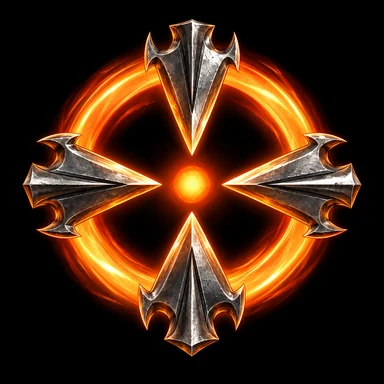
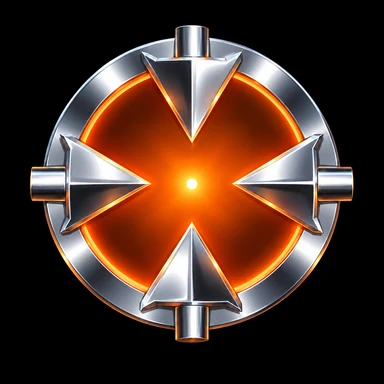
Quarry Mark's reticle redrawn with clean geometry: a steel hoop, four identical broadheads

diff --git a/AGENTS.md b/AGENTS.md
@@ -146,7 +146,7 @@ The game has no test suite. Verify changes with `npm run build` and by playing t
   - **A new icon** matches the set, which is simple and bold.
     - **Simple:** one subject, or two or three of the same object at most; clean silhouettes with smooth shading; pure black to the edges, with nothing scattered round it (no sparks, leaves, rings or ground).
     - **Bold:** big, filling about 80% of the square; chunky proportions (thick shafts, big heads); a strong saturated glow in the skill's `icon.color` lighting it.
-    - **Crafted:** an object is a real one, finely made, as the warrior's are: polished steel with bevels and crisp highlights on its edges, wood with its grain, leather and gold fittings, lit by the skill's glow, in a dynamic diagonal composition with the energy as arcs and ribbons behind it. An arrow is a whole arrow seen from its side, larger than life where it counts (a big steel head, a straight thick wooden shaft, three big feathers, a nock), its glow trailing behind it: the ranger's second set coiled glows round thin shafts, and players saw "unknown long objects". A figure keeps what makes it one clear at slot size (Veilstep's hood, shoulders and crystal staff: a hooded shroud of light read as a ghost).
+    - **Crafted:** an object is a real one, finely made, as the warrior's are: polished steel with bevels and crisp highlights on its edges, wood with its grain, leather and gold fittings, lit by the skill's glow, in a dynamic diagonal composition with the energy as arcs and ribbons behind it. An arrow is a whole arrow seen from its side, larger than life where it counts (a big steel head, a straight thick wooden shaft, three big feathers, a nock), its glow trailing behind it: the ranger's second set coiled glows round thin shafts, and players saw "unknown long objects". A figure keeps what makes it one clear at slot size (Veilstep's hood, shoulders and crystal staff: a hooded shroud of light read as a ghost). A symmetric emblem is laid out exactly, as with a compass and a ruler: its pieces identical and evenly placed, its rings true circles, its steel smooth (Quarry Mark's first reticle, four arrowheads of different sizes with hooked barbs on a lumpy, smoky ring, looked messy).
     - **Padded:** the touch buttons are round, so 99.5% of an icon's light must lie inside the circle they draw, and its content at least 4% clear of the square's edges. The ranger's arrows ran corner to corner and the circle cut up to 16% of their light. On a black background a picture is padded exactly by shrinking it onto a larger black square, which `npm run icons -- add <impl> <original>` does as it writes the WebP (`tools/icons/README.md`); `check` measures every icon (most of the warrior's and mage's, made before this rule, reach past the circle, Twin Fangs and Raise Shield by 10% of their light).
     - **Coloured apart:** each skill of a class in a colour of its own, as the warrior's and mage's are, with `icon.color` (the tooltip's name, the key diagram's glow) set to match. Veilstep's is violet though its light in the game is green: Void Lance's icon is green.
     - **Judged at slot size:** compare it with the others shrunk to 60 px (`npm run icons -- sheet --try <impl>=<picture>`: each class's icons side by side, large and at 60 px square and round, the candidate in its place). The ranger's first set was crowded (vines, sparks, a stag behind the reticle), and the next came out as thin, pale arrows that faded beside the others.
